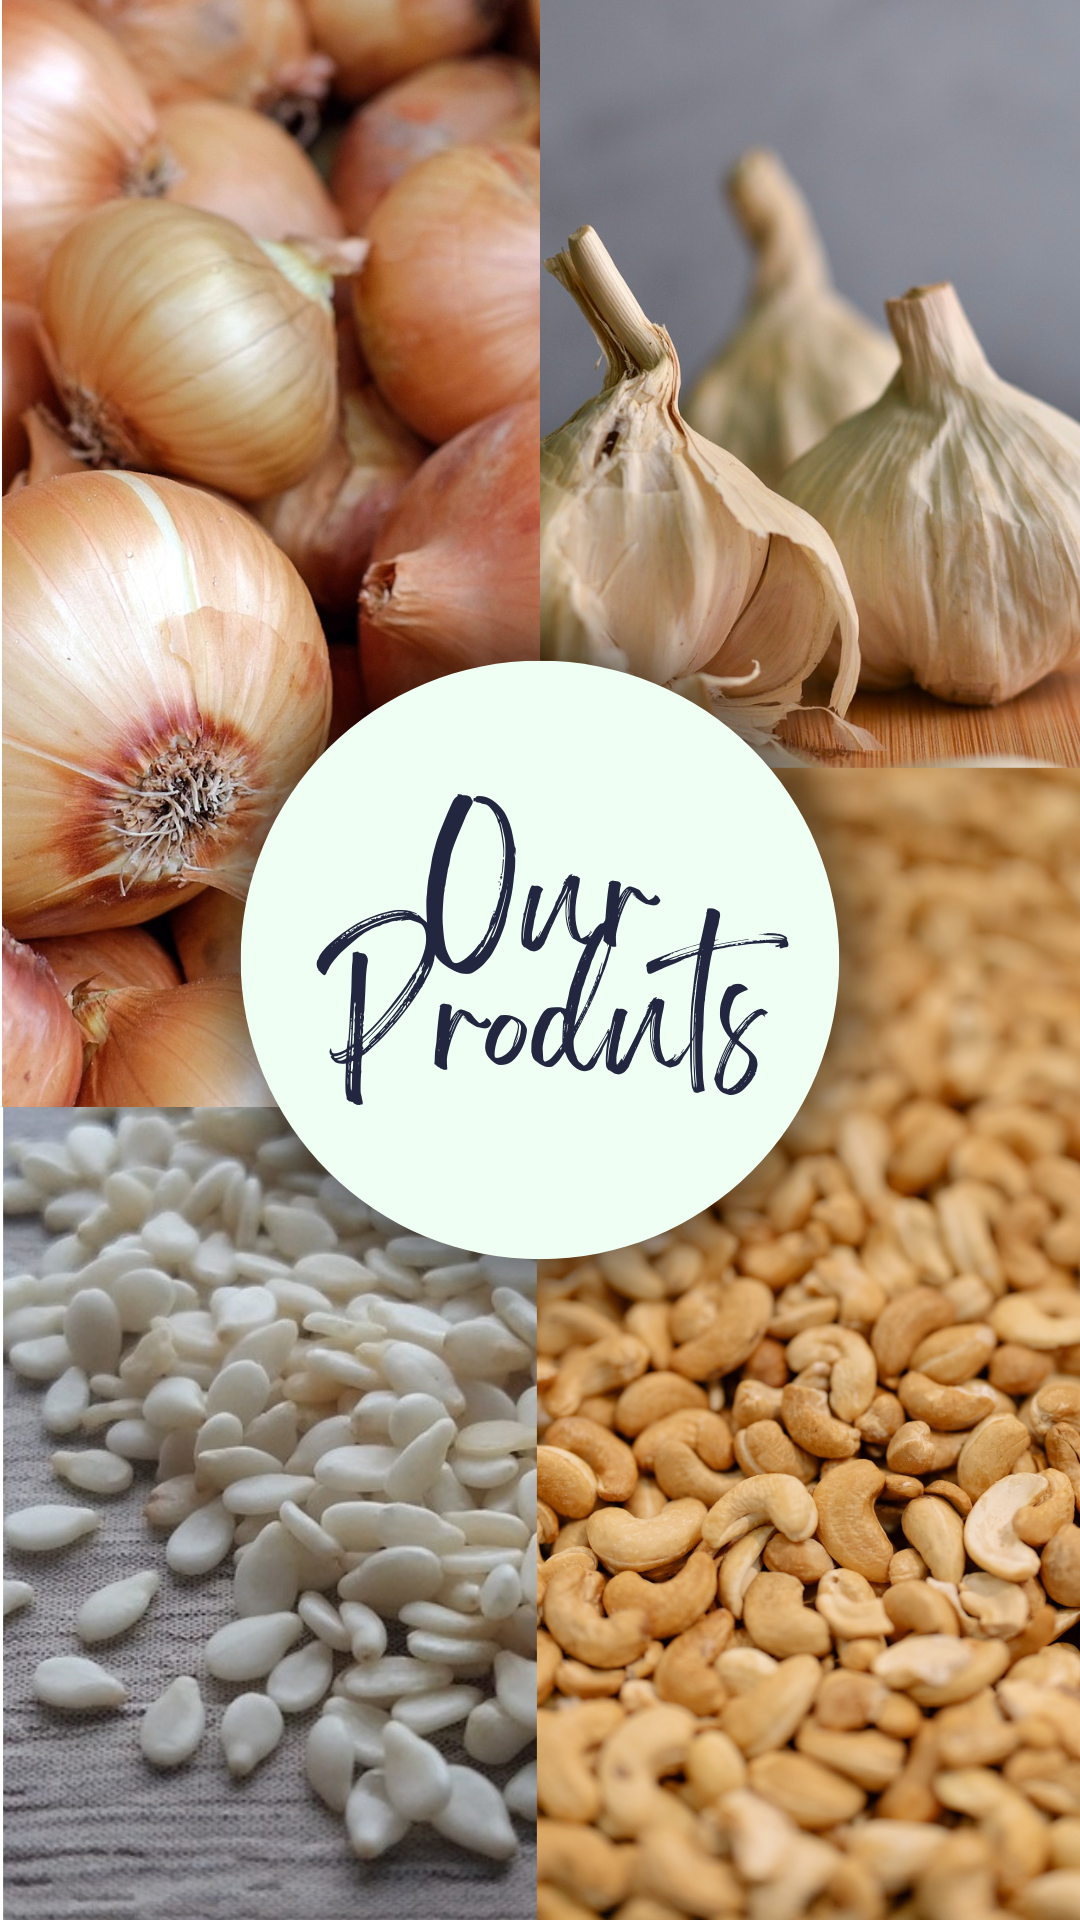
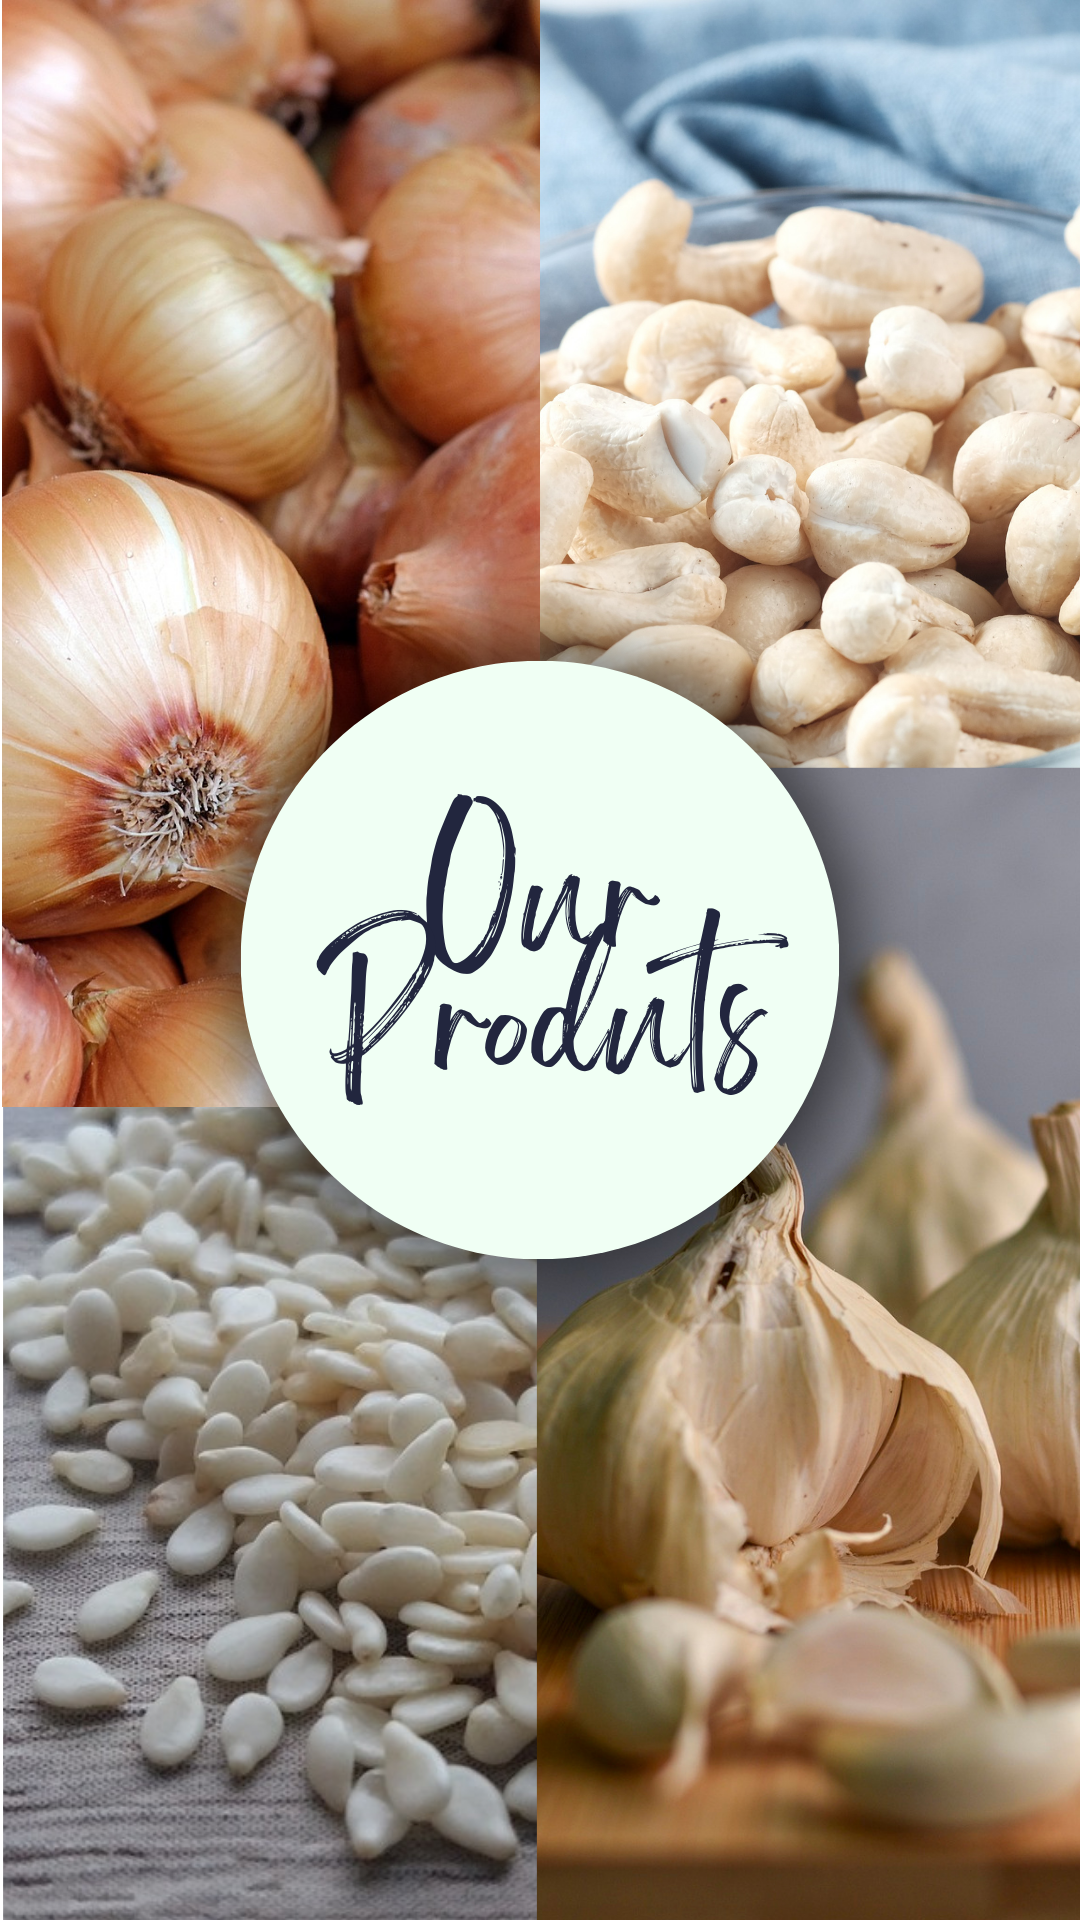
changes

diff --git a/src/RouterComponents/RouterProducts.js b/src/RouterComponents/RouterProducts.js
@@ -20,6 +20,10 @@ import turm1 from "../assets/turmeric-3251560_1280.jpg";
 import turm2 from "../assets/turmeric-3273907_1280.jpg";
 import cnuts1 from "../assets/anacardium-3523449_1280.jpg";
 import cnuts2 from "../assets/cashew-1452216_1280.jpg";
+import bsame1 from "../assets/black-sesame-6746593_1280.jpg";
+import bsame2 from "../assets/food-6080815_1280.jpg";
+import wsame1 from "../assets/sesame-1274906_1280.jpg";
+import wsame2 from "../assets/sesame-3311532_1280.jpg";
 
 const RouterProducts = () => {
   return (
@@ -96,7 +100,7 @@ const RouterProducts = () => {
             <h2>Unlock the Rich Flavors of Garlic with Star Harvest Exim</h2>
             <p>
               "At Star Harvest Exim, we take pride in sourcing and delivering
-              the finest garlic varieties from around the world."{" "}
+              the finest garlic varieties from around India."{" "}
             </p>
           </div>
         </div>
@@ -175,6 +179,59 @@ const RouterProducts = () => {
             </p>
           </div>
         </div>
+        <div
+          style={{
+            display: "flex",
+            padding: "1rem",
+            justifyContent: "space-around",
+          }}
+        >
+          <div class="gallery">
+            <img src={bsame2} alt="a wolf" />
+            <img src={bsame1} alt="a lioness" />
+          </div>
+          <div className="right-pane">
+            <h4>
+              BLACK SESAME <img style={{ width: "8%" }} src={line} />
+            </h4>
+            <h2>
+              Discover the hidden gems of nutrition and flavor with our black
+              sesame products
+            </h2>
+            <p>
+              "Black sesame seeds are a versatile ingredient in both sweet and
+              savory dishes. When you choose our black sesame products, you're
+              choosing the best for your culinary creations."
+            </p>
+          </div>
+        </div>
+        <div
+          style={{
+            display: "flex",
+            padding: "1rem",
+            justifyContent: "space-around",
+            flexDirection: "row-reverse",
+          }}
+        >
+          <div class="gallery">
+            <img src={wsame1} alt="a wolf" />
+            <img src={wsame2} alt="a lioness" />
+          </div>
+          <div className="right-pane">
+            <h4>
+              WHITE SESAME <img style={{ width: "8%" }} src={line} />
+            </h4>
+            <h2>
+              Elevate your culinary creations with the pure goodness of our
+              white sesame seeds
+            </h2>
+            <p>
+              "Our white sesame seeds add a delightful nutty flavor to your
+              dishes. Whether you're baking, cooking, or garnishing, these seeds
+              are a must-have in your pantry."
+            </p>
+          </div>
+        </div>
       </div>
       <div className="Rproduct-mobile">
         <div className="Rproduct-content">
@@ -233,7 +290,7 @@ const RouterProducts = () => {
               </h2>
               <p style={{ fontSize: "13px", fontWeight: "500" }}>
                 At Star Harvest Exim, we take pride in sourcing and delivering
-                the finest garlic varieties from around the world.
+                the finest garlic varieties from around India.
               </p>
             </div>
           </div>
@@ -299,6 +356,49 @@ const RouterProducts = () => {
                 At Star Harvest Exim, we take pride in sourcing and delivering
                 high-quality turmeric that will add a burst of flavor to your
                 culinary creations.
+              </p>
+            </div>
+          </div>
+        </div>
+        <div className="Rproduct-content">
+          <div class="Rcard">
+            <div class="Rimgbox">
+              <img src={wsame2} alt="" />
+            </div>
+            <div>
+              <span className="Rcontent-text">White Sesame</span>
+            </div>
+
+            <div class="Rcontent">
+              <h2 style={{ fontSize: "15px" }}>
+                Elevate your culinary creations with the pure goodness of our
+                white sesame seeds
+              </h2>
+              <p style={{ fontSize: "13px", fontWeight: "500" }}>
+                Our white sesame seeds add a delightful nutty flavor to your
+                dishes, these seeds are a must-have in your pantry.
+              </p>
+            </div>
+          </div>
+        </div>
+        <div className="Rproduct-content">
+          <div class="Rcard">
+            <div class="Rimgbox">
+              <img src={bsame2} alt="" />
+            </div>
+            <div>
+              <span className="Rcontent-text">Black Sesame</span>
+            </div>
+
+            <div class="Rcontent">
+              <h2 style={{ fontSize: "15px" }}>
+                Discover the hidden gems of nutrition and flavor with our black
+                sesame products
+              </h2>
+              <p style={{ fontSize: "13px", fontWeight: "500" }}>
+                Black sesame seeds are a versatile ingredient in both sweet and
+                savory dishes. you're choosing the best for your culinary
+                creations.
               </p>
             </div>
           </div>

diff --git a/src/Products/Products.jsx b/src/Products/Products.jsx
@@ -8,6 +8,8 @@ import image3 from "../assets/pexels-nick-collins-1392585.jpg";
 import image4 from "../assets/pexels-samer-daboul-1652002.jpg";
 import image5 from "../assets/Cashew.png";
 import image6 from "../assets/pexels-tamanna-rumee-7988015.jpg";
+import image7 from "../assets/food-6080815_1280.jpg";
+import image8 from "../assets/sesame-1274906_1280.jpg";
 
 const Products = () => {
   return (
@@ -72,7 +74,7 @@ const Products = () => {
             </h2>
             <p style={{ fontSize: "13px", fontWeight: "500" }}>
               At Star Harvest Exim, we take pride in sourcing and delivering the
-              finest garlic varieties from around the world.
+              finest garlic varieties from around India.
             </p>
           </div>
         </div>
@@ -132,6 +134,42 @@ const Products = () => {
               At Star Harvest Exim, we take pride in sourcing and delivering
               high-quality turmeric that will add a burst of flavor to your
               culinary creations.
+            </p>
+          </div>
+        </div>
+      </div>
+      <div style={{ marginTop: "5rem" }} className="product-content">
+        <div class="card">
+          <div class="imgbox">
+            <img src={image7} alt="" />
+          </div>
+          <div>
+            <span className="content-text">Black Sesame</span>
+          </div>
+
+          <div class="content">
+            <h2 style={{ fontSize: "15px" }}>
+            Discover the hidden gems of nutrition and flavor with our black sesame products
+            </h2>
+            <p style={{ fontSize: "13px", fontWeight: "500" }}>
+            Black sesame seeds are a versatile ingredient in both sweet and savory dishes. you're choosing the best for your culinary creations. 
+            </p>
+          </div>
+        </div>
+        <div class="card">
+          <div class="imgbox">
+            <img src={image8} alt="" />
+          </div>
+          <div>
+            <span className="content-text">White Sesame</span>
+          </div>
+
+          <div class="content">
+            <h2 style={{ fontSize: "15px" }}>
+              Delightful nutty flavor to your dishes{" "}
+            </h2>
+            <p style={{ fontSize: "13px", fontWeight: "500" }}>
+            Elevate your culinary creations with the pure goodness of our white sesame seeds. Sourced from the finest fields, these seeds are renowned for their quality and versatility.
             </p>
           </div>
         </div>
@@ -260,7 +298,7 @@ const Products = () => {
               }}
             >
               "At Star Harvest Exim, we take pride in sourcing and delivering
-              the finest garlic varieties from around the world".
+              the finest garlic varieties from around India".
             </h4>
           </div>
         </div>
@@ -324,6 +362,66 @@ const Products = () => {
               "At Star Harvest Exim, we specialize in sourcing and delivering
               top-quality Peanuts renowned for their crispiness and delicious
               taste."
+            </h4>
+          </div>
+        </div>
+        <div className="parallax-container7">
+          <div className="parallax-content">
+            <h2 style={{ color: "white" }}>BLACK SESAME</h2>
+          </div>
+        </div>
+        <div
+          style={{
+            padding: "1rem",
+            display: "flex",
+            flexDirection: "column",
+            gap: "1rem",
+          }}
+        >
+          <div>
+            <h2 style={{ color: "green" }}>
+              Discover the hidden gems of nutrition and flavor with our black sesame products
+            </h2>
+          </div>
+          <div>
+            <h4
+              style={{
+                color: "black",
+                textAlign: "center",
+                fontStyle: "italic",
+              }}
+            >
+              "Black sesame seeds are a versatile ingredient in both sweet and savory dishes. you're choosing the best for your culinary creations."
+            </h4>
+          </div>
+        </div>
+        <div className="parallax-container8">
+          <div className="parallax-content">
+            <h2 style={{ color: "white" }}>WHITE SESAME</h2>
+          </div>
+        </div>
+        <div
+          style={{
+            padding: "1rem",
+            display: "flex",
+            flexDirection: "column",
+            gap: "1rem",
+          }}
+        >
+          <div>
+            <h2 style={{ color: "green" }}>
+            Delightful nutty flavor to your dishes
+            </h2>
+          </div>
+          <div>
+            <h4
+              style={{
+                color: "black",
+                textAlign: "center",
+                fontStyle: "italic",
+              }}
+            >
+              "Elevate your culinary creations with the pure goodness of our white sesame seeds. Sourced from the finest fields, these seeds are renowned for their quality and versatility.".
             </h4>
           </div>
         </div>

diff --git a/src/Products/Products.css b/src/Products/Products.css
@@ -120,6 +120,7 @@
   }
 
   .parallax-container2 {
+    margin-top: 5rem;
     height: 20vh;
     background-image: url("../assets/pexels-tamanna-rumee-7988015.jpg");
     background-size: cover;
@@ -132,6 +133,7 @@
     align-items: center;
   }
   .parallax-container3 {
+    margin-top: 5rem;
     height: 20vh;
     background-image: url("../assets/pexels-samer-daboul-1652002.jpg");
     background-size: cover;
@@ -144,6 +146,7 @@
     align-items: center;
   }
   .parallax-container4 {
+    margin-top: 5rem;
     height: 20vh;
     background-image: url("../assets/pexels-nick-collins-1392585.jpg");
     background-size: cover;
@@ -156,6 +159,7 @@
     align-items: center;
   }
   .parallax-container5 {
+    margin-top: 5rem;
     height: 20vh;
     background-image: url("../assets/pexels-kindel-media-7456550.jpg");
     background-size: cover;
@@ -168,8 +172,35 @@
     align-items: center;
   }
   .parallax-container6 {
+    margin-top: 5rem;
     height: 20vh;
     background-image: url("../assets/bold-peanut.jpg");
+    background-size: cover;
+    background-attachment: fixed;
+    background-position: center;
+    position: relative;
+    overflow: hidden;
+    display: flex;
+    justify-content: center;
+    align-items: center;
+  }
+  .parallax-container7 {
+    margin-top: 5rem;
+    height: 20vh;
+    background-image: url("../assets/black-sesame-6746593_1280.jpg");
+    background-size: cover;
+    background-attachment: fixed;
+    background-position: center;
+    position: relative;
+    overflow: hidden;
+    display: flex;
+    justify-content: center;
+    align-items: center;
+  }
+  .parallax-container8 {
+    margin-top: 5rem;
+    height: 20vh;
+    background-image: url("../assets/sesame-1274906_1280.jpg");
     background-size: cover;
     background-attachment: fixed;
     background-position: center;
